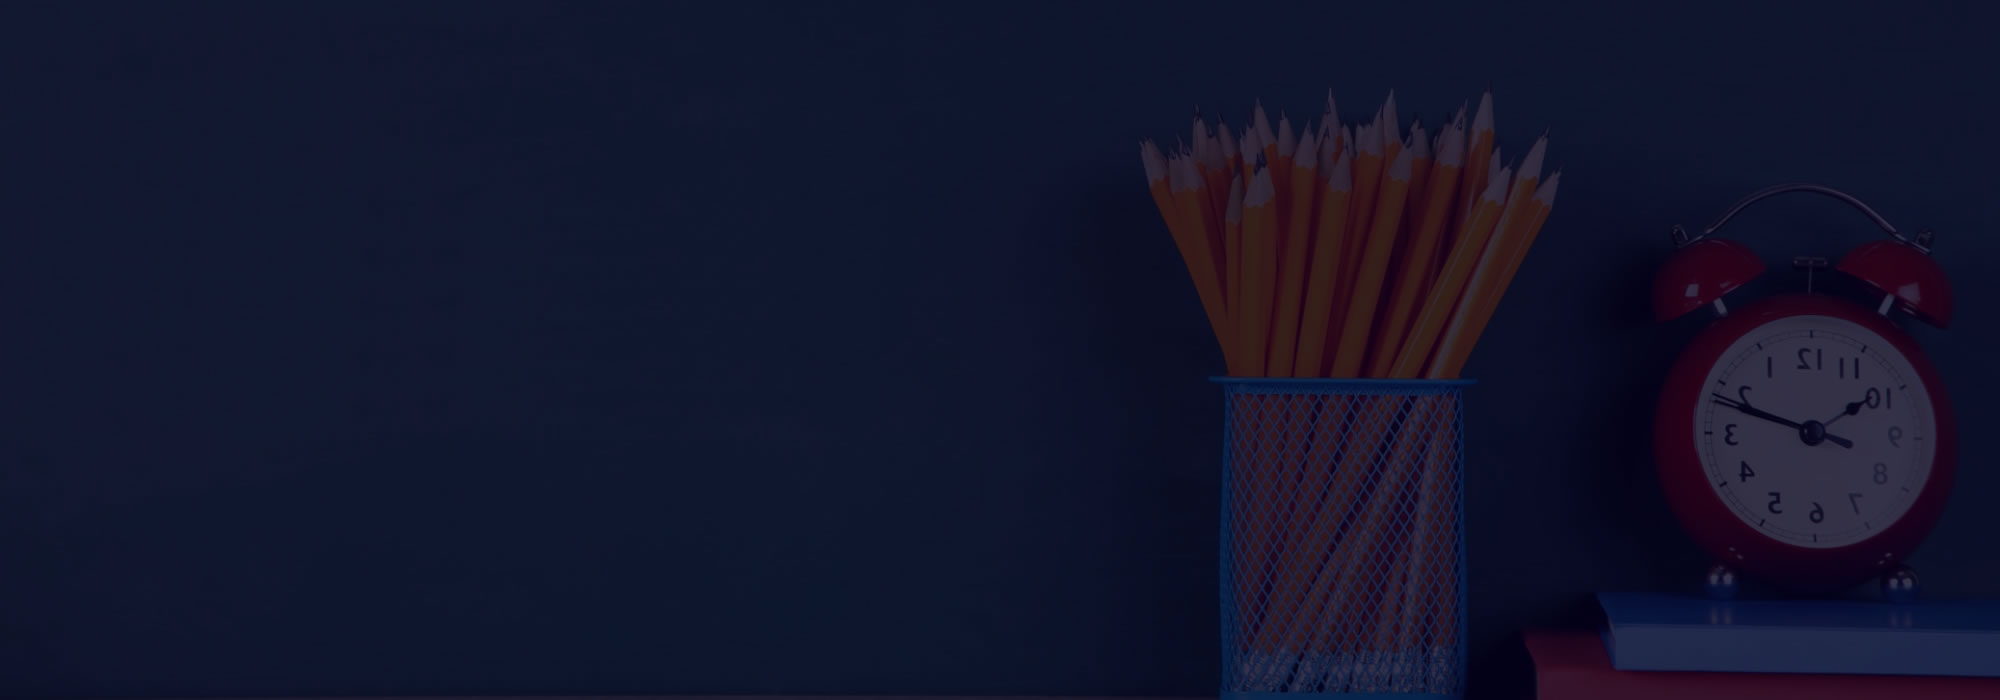
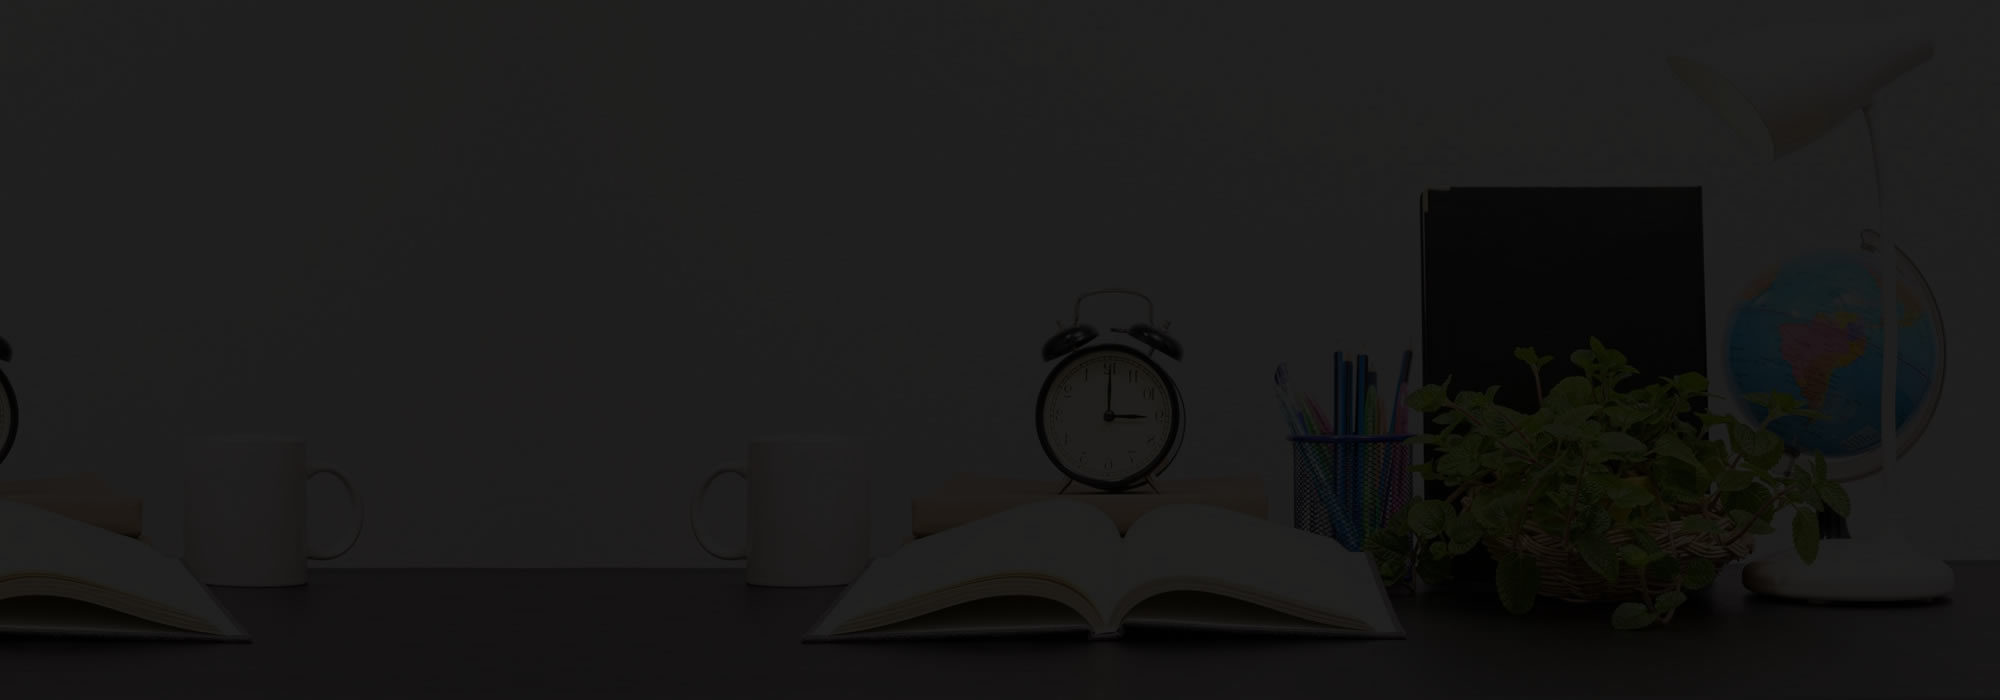
feature: updates 2 on parent login  @ 10-05-2025

diff --git a/portal/style/parent/main-style.css b/portal/style/parent/main-style.css
@@ -48,20 +48,20 @@ header .inner-div .left-div ul li{
     height: 40px;
     display: flex;
     align-items: center;
-    color: var(--white-color);
+    color: var(--sub-body-color);
     padding: 0px 10px;
     border-radius: 5px;
     font-size: 13px;
     transition: all 0.2s ease-in 0.2s;
-    background: rgba(255, 255, 255, .1);
+    background: rgba(68, 68, 68, .1);
 }
 
 header .inner-div .left-div ul li:hover, header .inner-div .left-div ul .active-li{
-    background: rgba(255, 255, 255, .2);
+    background: rgba(68, 68, 68, .2);
 }
 
 header .inner-div .btn{
-    color: var(--text-color2);
+    color: var(--sub-body-color);
     font-family: sub-title-font;
     border: rgba(179, 176, 176, 0.5) 1px solid;
     height: 40px;
@@ -156,7 +156,7 @@ header .inner-div .mobile-logout:hover{
 }
 
 .mini-profile-div .profile-content span{
-	color: var(--text-color2);
+	color: #FFF;
 	font-size: 13px;
 }
 

diff --git a/portal/style/parent/auth-style.css b/portal/style/parent/auth-style.css
@@ -7,7 +7,7 @@
     height: 100%;
     padding: 0px;
     margin: 0px;
-    background: #03001e;
+    background: #f4f4f5;
 }
 
 .login-session .graphics-div{
@@ -47,7 +47,7 @@
 }
 
 .login-session .graphics-div .content h2{
-    color: var(--white-color);
+    color: #444;
     text-align: center;
     font-size: 30px;
     line-height: 40px;
@@ -115,7 +115,7 @@
 }
 
 .login-session .login-div .form-back-div .form-div .top-div h1{
-    color: var(--primary-color);
+    color: #444;
     font-size: 35px;
     line-height: 45px;
     padding: 0px;
@@ -148,7 +148,7 @@
     border-radius: 5px;
     font-family: sub-title-font;
     font-size: 16px;
-    background: var(--primary-color);
+    background: #444444;
     color: var(--white-color);
     cursor: pointer;
     transition: all 0.2s ease-in 0.2s;

diff --git a/dev-api/dev/parent/auth/login.php b/dev-api/dev/parent/auth/login.php
@@ -1,0 +1,99 @@
+<?php require_once '../../config/connection.php';?>
+<?php
+if (!$checkBasicSecurity){/// start if 1
+    goto end;
+}
+	//////////////////declaration of variables//////////////////////////////////////
+	$parentTypeId =trim($data['parentTypeId']);
+	$email=trim($data['email']);
+	$phone=trim($data['phone']);
+	////////////////////////////////////////////////////////////////////////////////
+
+	if (empty($parentTypeId)){/// start if 2
+        $response = [
+            'response'=> 100,
+            'success'=> false,
+            'message'=> "PARENT TYPE REQUIRED! Check username fields and try again",
+        ]; 
+        goto end;
+	}
+
+    if(empty($email)){
+        $response = [
+            'response'=> 101,
+            'success'=> false,
+            'message'=> "EMAIL REQUIRED! Check password fields and try again",
+        ]; 
+        goto end;
+	}
+
+    if(!filter_var($email, FILTER_VALIDATE_EMAIL)){
+        $response = [
+            'response'=> 102,
+            'success'=> false,
+            'message'=> "INVALID EMAIL ADDRESS! Enter a valid email address and try again",
+        ]; 
+        goto end;
+	}
+    if(empty($phone)){
+        $response = [
+            'response'=> 101,
+            'success'=> false,
+            'message'=> "PHONE NUMBER REQUIRED! Check password fields and try again",
+        ]; 
+        goto end;
+	}
+			$select=mysqli_query($conn,"SELECT * FROM PARENTS_TAB WHERE $clientIds AND recordFor='$parentTypeId' AND email='$email' AND `mobileNumber`='$phone' LIMIT 1") or die (mysqli_error($conn));
+			$countUser=mysqli_num_rows($select);
+            if ($countUser==0){ /// start if 4
+                $response = [
+                    'response'=> 103,
+                    'success'=> false,
+                    'message'=> "INVALID LOGIN CREDIENTIALS! Kindly check the login parameters and try again.",
+                    'clientIds'=> $clientIds,
+                    'parentTypeId'=> $parentTypeId,
+                    'email'=> $email,
+                    'phone'=> $phone,
+                ];
+                goto end;
+            }
+
+                $fetchQuery=mysqli_fetch_assoc($select);
+                $statusId=$fetchQuery['statusId'];
+                
+                if($statusId!=1){
+                    $response = [
+                        'response'=> 102,
+                        'success'=> false,
+                        'message'=> "ACCOUNT SUSPENDED! Contact the administrator for more info.",
+                    ];
+                    goto end;
+                }
+
+                
+                $response['response']=200; 
+                $response['success']=true;
+                $response['message']="LOGIN SUCCESSFUL!"; 
+                $response['parentData']= $fetchQuery;
+                $response['students'] = array(); // Initialize the data array
+
+			    $select="SELECT branchId, studentId FROM PARENTS_TAB WHERE $clientIds AND recordFor='$parentTypeId' AND email='$email'";
+                $query=mysqli_query($conn,$select)or die (mysqli_error($conn));
+                while ($fetchQuery = mysqli_fetch_assoc($query)) {
+                    $branchId=$fetchQuery['branchId'];
+                    $studentId=$fetchQuery['studentId'];
+                    /////////////////// for  $studentId
+                    $studentDetailQuery=mysqli_query($conn,"SELECT a.*, b.* FROM STUDENTS_CLASS_TAB a, STUDENT_VIEW b WHERE a.clientId=b.clientId AND a.branchId=b.branchId AND a.studentId=b.studentId  AND  a.clientId='$clientId' AND a.branchId = '$branchId' AND a.studentId='$studentId'");
+                    $studentDetailFetch = mysqli_fetch_assoc($studentDetailQuery);
+                    $fetchQuery['studentData'] = $studentDetailFetch;
+                     ////////////////// for  $branchId
+                    $branchDataQuery = mysqli_query($conn, "SELECT branchId, name AS branchName, address, mobileNumber, smtpUsername AS email FROM BRANCHES_TAB WHERE $clientIds AND branchId='$branchId'");
+                    $branchDataFetch = mysqli_fetch_assoc($branchDataQuery);
+                    $fetchQuery['branchData'] = $branchDataFetch;
+
+                    $response['students'][]= $fetchQuery;
+                }
+            
+end:
+echo json_encode($response);
+?>

diff --git a/dev-api/dev/admin/branch/fees/fetch-fees-compute-general.php b/dev-api/dev/admin/branch/fees/fetch-fees-compute-general.php
@@ -71,14 +71,10 @@ if(!$checkSession){
                          LIMIT 1) AS updatedBy
                 ");
 
-                
-                
                 $payableAmountDataFetch = mysqli_fetch_assoc($payableAmountDataQuery);
                 $updatedBy=$payableAmountDataFetch['updatedBy'];
                 $payableAmount = $payableAmountDataFetch['payableAmount'];
                 $classDataFetch['payableAmount'] = (is_null($payableAmount) || $payableAmount === '') ? '0.00' : $payableAmount;
-
-
 
                  /////////////////// for  $updatedBy
                 $getUpdatedByQuery = mysqli_query($conn, "SELECT CONCAT(titleId, ' ', firstName, ' ', lastName) AS fullname, emailAddress FROM STAFF_TAB WHERE $clientIds AND staffId='$updatedBy'");
@@ -88,9 +84,6 @@ if(!$checkSession){
             $classData[] = $classDataFetch;
         }
         $fetchQuery['classData']= $classData;
-
-
-
         $response['data'][] = $fetchQuery;
     }
 //////////////////////////////////////////////////////////////////////////////////////////////

diff --git a/dev-api/dev/admin/branch/fees/delete-fees-compute.php b/dev-api/dev/admin/branch/fees/delete-fees-compute.php
@@ -1,0 +1,23 @@
+<?php require_once '../../../config/connection.php';?>
+<?php require_once '../../../config/staff-session-check.php';?>
+<?php
+if (!$checkBasicSecurity){/// start if 1
+    goto end;
+}
+if(!$checkSession){
+	$response['response']=99;
+	$response['success']=false;
+	$response['message']="SESSION EXPIRED! Please LogIn Again.";
+	goto end;
+}
+	//////////////////declaration of variables//////////////////////////////////////
+    $fcId = $_GET['fcId'];
+    mysqli_query($conn,"DELETE FROM FEES_COMPUTE_TAB WHERE fcId='$fcId'")or die (mysqli_error($conn));
+   
+    $response['response']=200; 
+    $response['success']=true;
+    $response['message']="FEES DELETED SUCCESFFULY!"; 
+//////////////////////////////////////////////////////////////////////////////////////////////
+end:
+echo json_encode($response);
+?>

diff --git a/dev-api/dev/admin/branch/fees/create-fees-compute.php b/dev-api/dev/admin/branch/fees/create-fees-compute.php
@@ -76,7 +76,7 @@ if(!$checkSession){
         $sequence=$callclass->_get_sequence_count($conn, $countId);
         $array = json_decode($sequence, true);
         $no= $array[0]['no'];
-        $fcid=$countId.$no.date("Ymdhis");
+        $fcId=$countId.$no.date("Ymdhis");
 
 
         mysqli_query($conn,"INSERT INTO `FEES_COMPUTE_TAB`
